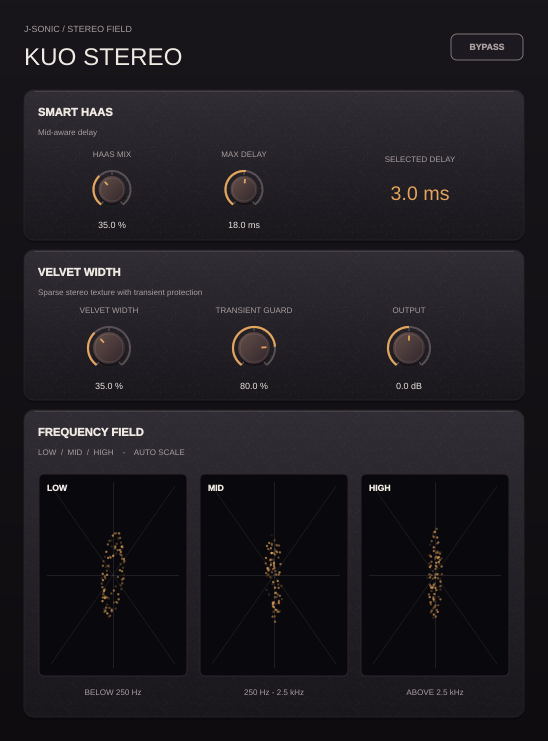
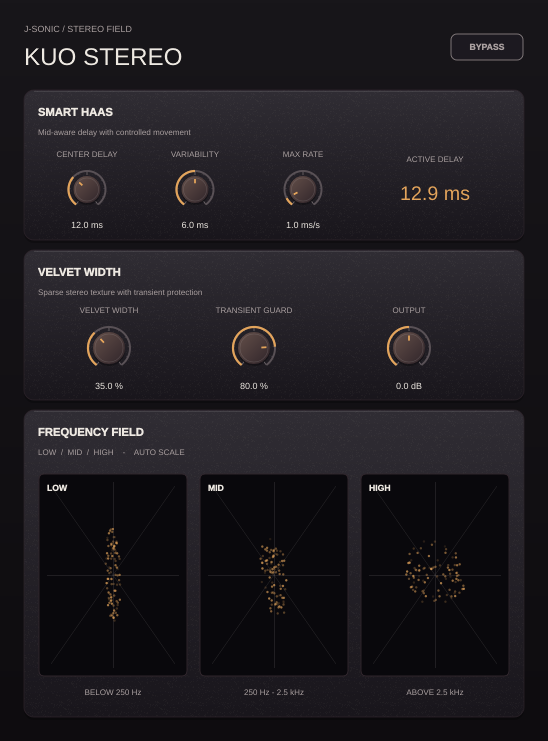
Control Kuo Haas delay around center with slew limit

diff --git a/projects/KuoStereo/Source/PluginProcessor.cpp b/projects/KuoStereo/Source/PluginProcessor.cpp
@@ -12,8 +12,9 @@ juce::AudioProcessorValueTreeState::ParameterLayout KuoStereoProcessor::layout()
             juce::NormalisableRange<float> { lo, hi, step }, initial,
             juce::AudioParameterFloatAttributes().withLabel (unit)));
     };
-    add ("haasMix", "Smart Haas", 0, 100, 0.1f, 35, "%");
-    add ("haasMax", "Haas maximum delay", 5, 30, 0.1f, 18, "ms");
+    add ("haasCenter", "Haas center delay", 3, 30, 0.1f, 12, "ms");
+    add ("haasRange", "Haas variability", 0, 12, 0.1f, 6, "ms");
+    add ("haasRate", "Haas maximum variation rate", 0.1f, 10, 0.1f, 1, "ms/s");
     add ("width", "Velvet width", 0, 100, 0.1f, 35, "%");
     add ("transientProtect", "Transient protection", 0, 100, 0.1f, 80, "%");
     add ("output", "Output", -12, 12, 0.1f, 0, "dB");
@@ -39,10 +40,12 @@ void KuoStereoProcessor::prepareToPlay (double rate, int)
     writePosition = sampleCount = analysisCounter = scopeCounter = transientHold = 0;
     lowState = upperState = {};
     fastEnvelope = slowEnvelope = 0;
-    haasBlend = widthBlend = 0;
+    widthBlend = 0;
     protectionGain = 1;
-    targetDelaySamples = smoothDelaySamples = 0.005f * sampleRate;
-    selectedDelayMs.store (5.0f, std::memory_order_relaxed);
+    const auto centerDelayMs = parameters.getRawParameterValue ("haasCenter")->load();
+    targetDelaySamples = smoothDelaySamples = centerDelayMs * 0.001f * sampleRate;
+    selectedDelayMs.store (centerDelayMs, std::memory_order_relaxed);
+    currentDelayMs.store (centerDelayMs, std::memory_order_relaxed);
     const auto coefficient = [this] (float hz)
     { return 1.0f - std::exp (-juce::MathConstants<float>::twoPi * hz / sampleRate); };
     lowCoefficient = coefficient (250.0f);
@@ -97,22 +100,43 @@ float KuoStereoProcessor::readAgoInterpolated (const std::vector<float>& history
          + readAgo (history, whole + 1) * fraction;
 }
 
-void KuoStereoProcessor::analyzeMidSpectrum (float maxDelayMs) noexcept
+void KuoStereoProcessor::analyzeMidSpectrum (float centerDelayMs, float variabilityMs) noexcept
 {
+    const auto lowDelayMs = std::max (3.0f, centerDelayMs - variabilityMs);
+    const auto highDelayMs = std::min (30.0f, centerDelayMs + variabilityMs);
     if (sampleCount < static_cast<int> (sampleRate * 0.03f) + fftSize)
+    {
+        targetDelaySamples = centerDelayMs * 0.001f * sampleRate;
+        selectedDelayMs.store (centerDelayMs, std::memory_order_relaxed);
         return;
+    }
+    if (highDelayMs - lowDelayMs < 0.0001f)
+    {
+        targetDelaySamples = lowDelayMs * 0.001f * sampleRate;
+        selectedDelayMs.store (lowDelayMs, std::memory_order_relaxed);
+        return;
+    }
     std::fill (spectrumInput.begin(), spectrumInput.end(), 0.0f);
     for (int i = 0; i < fftSize; ++i)
         spectrumInput[static_cast<size_t> (i)] = readAgo (midHistory, fftSize - 1 - i)
                                                  * window[static_cast<size_t> (i)];
     fft.performFrequencyOnlyForwardTransform (spectrumInput.data());
+    float referenceLevel = 0;
+    for (int bin = 2; bin < fftSize / 2; ++bin)
+        referenceLevel += spectrumInput[static_cast<size_t> (bin)] / fftSize;
+    if (referenceLevel < 0.001f)
+    {
+        targetDelaySamples = centerDelayMs * 0.001f * sampleRate;
+        selectedDelayMs.store (centerDelayMs, std::memory_order_relaxed);
+        return;
+    }
 
     float bestScore = std::numeric_limits<float>::max();
-    float bestDelayMs = 5.0f;
+    float bestDelayMs = centerDelayMs;
     for (int candidate = 0; candidate < candidates; ++candidate)
     {
-        const auto delayMs = 3.0f + (std::max (maxDelayMs, 3.0f) - 3.0f)
-                                      * static_cast<float> (candidate) / static_cast<float> (candidates - 1);
+        const auto delayMs = lowDelayMs + (highDelayMs - lowDelayMs)
+                                         * static_cast<float> (candidate) / static_cast<float> (candidates - 1);
         const auto delaySamples = juce::roundToInt (delayMs * 0.001f * sampleRate);
         std::fill (spectrumCandidate.begin(), spectrumCandidate.end(), 0.0f);
         for (int i = 0; i < fftSize; ++i)
@@ -189,8 +213,10 @@ void KuoStereoProcessor::processBlock (juce::AudioBuffer<float>& buffer, juce::M
 {
     juce::ScopedNoDenormals noDenormals;
     if (buffer.getNumChannels() < 2 || rightHistory.empty()) return;
-    const auto mixTarget = parameters.getRawParameterValue ("haasMix")->load() * 0.01f;
-    const auto maxDelay = parameters.getRawParameterValue ("haasMax")->load();
+    const auto centerDelay = parameters.getRawParameterValue ("haasCenter")->load();
+    const auto variability = parameters.getRawParameterValue ("haasRange")->load();
+    const auto maxRate = parameters.getRawParameterValue ("haasRate")->load();
+    const auto maxDelayStep = maxRate * 0.001f; // Samples per sample equals ms per second.
     const auto widthTarget = parameters.getRawParameterValue ("width")->load() * 0.01f;
     const auto protection = parameters.getRawParameterValue ("transientProtect")->load() * 0.01f;
     const auto gain = juce::Decibels::decibelsToGain (parameters.getRawParameterValue ("output")->load());
@@ -210,7 +236,7 @@ void KuoStereoProcessor::processBlock (juce::AudioBuffer<float>& buffer, juce::M
         if (++analysisCounter >= fftSize / 2)
         {
             analysisCounter = 0;
-            analyzeMidSpectrum (maxDelay);
+            analyzeMidSpectrum (centerDelay, variability);
         }
 
         fastEnvelope += fastCoefficient * (std::abs (mid) - fastEnvelope);
@@ -222,22 +248,22 @@ void KuoStereoProcessor::processBlock (juce::AudioBuffer<float>& buffer, juce::M
         const auto protectionTarget = transientHold > 0 ? 1.0f - protection : 1.0f;
         protectionGain += (protectionTarget - protectionGain)
             * (protectionTarget < protectionGain ? 0.1f : 0.001f);
-        smoothDelaySamples += (targetDelaySamples - smoothDelaySamples) * 0.0001f;
-        haasBlend += (mixTarget - haasBlend) * 0.001f;
+        smoothDelaySamples += std::clamp (targetDelaySamples - smoothDelaySamples,
+                                         -maxDelayStep, maxDelayStep);
         widthBlend += (widthTarget - widthBlend) * 0.001f;
         const auto delayedRight = readAgoInterpolated (rightHistory, smoothDelaySamples);
-        const auto haasRight = dryRight + haasBlend * (delayedRight - dryRight);
         float velvet = 0;
         for (int tap = 0; tap < velvetTaps; ++tap)
             velvet += tapWeights[static_cast<size_t> (tap)]
                     * readAgo (midHistory, tapOffsets[static_cast<size_t> (tap)]);
-        const auto widenedSide = 0.5f * (dryLeft - haasRight)
+        const auto widenedSide = 0.5f * (dryLeft - delayedRight)
                                + 0.5f * widthBlend * protectionGain * velvet;
-        const auto processedMid = 0.5f * (dryLeft + haasRight);
+        const auto processedMid = 0.5f * (dryLeft + delayedRight);
         left[i] = bypass ? dryLeft : (processedMid + widenedSide) * gain;
         right[i] = bypass ? dryRight : (processedMid - widenedSide) * gain;
         pushScope (left[i], right[i]);
     }
+    currentDelayMs.store (smoothDelaySamples * 1000.0f / sampleRate, std::memory_order_relaxed);
 }
 
 void KuoStereoProcessor::getStateInformation (juce::MemoryBlock& data)

diff --git a/projects/KuoStereo/Tests/ProcessorTests.cpp b/projects/KuoStereo/Tests/ProcessorTests.cpp
@@ -23,7 +23,8 @@ void set (KuoStereoProcessor& processor, const char* id, float value)
 float impulseSideEnergy (float guard)
 {
     KuoStereoProcessor processor;
-    set (processor, "haasMix", 0);
+    set (processor, "haasCenter", 30);
+    set (processor, "haasRange", 0);
     set (processor, "width", 100);
     set (processor, "transientProtect", guard);
     processor.prepareToPlay (48000, 256);
@@ -40,7 +41,7 @@ float impulseSideEnergy (float guard)
         for (int i = 0; i < 256; ++i)
         {
             const auto sample = block * 256 + i;
-            if (sample >= 4000 && sample < 5600)
+            if (sample >= 4192 && sample < 5400)
             {
                 const auto side = buffer.getSample (0, i) - buffer.getSample (1, i);
                 energy += side * side;
@@ -68,13 +69,16 @@ int main (int argc, char** argv)
         juce::ScopedJuceInitialiser_GUI gui;
         KuoStereoProcessor processor;
         check (processor.getName() == "Kuo Stereo", "plug-in identity is Kuo Stereo");
-        check (processor.getParameters().size() == 6, "all six host parameters are registered");
+        check (std::abs (processor.getCurrentDelayMs() - 12.0f) < 0.001f,
+               "active delay initially displays the default center before audio starts");
+        check (processor.getParameters().size() == 7, "all seven host parameters are registered");
         auto buses = processor.getBusesLayout();
         check (processor.isBusesLayoutSupported (buses), "stereo layout is supported");
         buses.outputBuses.set (0, juce::AudioChannelSet::mono());
         check (! processor.isBusesLayoutSupported (buses), "mismatched stereo layout is rejected");
-        set (processor, "haasMix", 62.5f);
-        set (processor, "haasMax", 24.0f);
+        set (processor, "haasCenter", 15.0f);
+        set (processor, "haasRange", 8.0f);
+        set (processor, "haasRate", 2.5f);
         set (processor, "width", 71.0f);
         set (processor, "transientProtect", 91.0f);
         juce::MemoryBlock state;
@@ -107,10 +111,13 @@ int main (int argc, char** argv)
         check (identical, "bypass preserves both input channels exactly");
 
         KuoStereoProcessor width;
-        set (width, "haasMix", 0);
         set (width, "width", 100);
         set (width, "transientProtect", 0);
         width.prepareToPlay (48000, 256);
+        KuoStereoProcessor noWidth;
+        set (noWidth, "width", 0);
+        noWidth.prepareToPlay (48000, 256);
+        juce::AudioBuffer<float> baseline (2, 256);
         float sideEnergy = 0;
         for (int block = 0; block < 180; ++block)
         {
@@ -121,11 +128,14 @@ int main (int argc, char** argv)
                 buffer.setSample (0, i, sample);
                 buffer.setSample (1, i, sample);
             }
+            baseline.makeCopyOf (buffer);
             width.processBlock (buffer, midi);
+            noWidth.processBlock (baseline, midi);
             if (block > 100)
                 for (int i = 0; i < 256; ++i)
                 {
-                    const auto side = buffer.getSample (0, i) - buffer.getSample (1, i);
+                    const auto side = (buffer.getSample (0, i) - buffer.getSample (1, i))
+                                    - (baseline.getSample (0, i) - baseline.getSample (1, i));
                     sideEnergy += side * side;
                 }
         }
@@ -136,8 +146,8 @@ int main (int argc, char** argv)
                "transient guard suppresses the widened impulse tail");
 
         KuoStereoProcessor haas;
-        set (haas, "haasMix", 100);
-        set (haas, "haasMax", 18);
+        set (haas, "haasCenter", 12);
+        set (haas, "haasRange", 6);
         set (haas, "width", 0);
         haas.prepareToPlay (48000, 256);
         unsigned int random = 0x51a7u;
@@ -161,10 +171,30 @@ int main (int argc, char** argv)
                     channelDifference += std::abs (left - right);
                 }
         }
-        check (haas.getSelectedDelayMs() >= 3.0f && haas.getSelectedDelayMs() <= 18.0f,
-               "mid-spectrum analyzer selects a delay within the requested Haas range");
+        check (haas.getSelectedDelayMs() >= 6.0f && haas.getSelectedDelayMs() <= 18.0f,
+               "mid-spectrum analyzer selects a delay within center plus or minus variability");
         check (finite && channelDifference > 1.0f, "adaptive Haas processing creates finite stereo separation");
         check (scopePeak (width, 1) > 0.01f, "mid-band goniometer receives processed stereo points");
+
+        KuoStereoProcessor limited;
+        set (limited, "haasCenter", 12);
+        set (limited, "haasRange", 0);
+        set (limited, "haasRate", 1);
+        limited.prepareToPlay (48000, 256);
+        set (limited, "haasCenter", 20);
+        buffer.clear();
+        for (int block = 0; block < 100; ++block)
+            limited.processBlock (buffer, midi);
+        const auto slowDelay = limited.getCurrentDelayMs();
+        check (std::abs (limited.getSelectedDelayMs() - 20.0f) < 0.01f,
+               "zero variability fixes the selected delay at the center");
+        check (slowDelay > 12.4f && slowDelay < 12.55f,
+               "one ms per second rate limit bounds the active delay movement");
+        set (limited, "haasRate", 10);
+        limited.processBlock (buffer, midi);
+        const auto fastStep = limited.getCurrentDelayMs() - slowDelay;
+        check (fastStep > 0.04f && fastStep < 0.06f,
+               "maximum rate control changes the delay slew limit");
 
         if (argc > 1 && juce::String (argv[1]) == "--editor")
         {
@@ -194,7 +224,7 @@ int main (int argc, char** argv)
             int knobs = 0;
             for (auto* child : editor->getChildren())
                 if (dynamic_cast<juce::Slider*> (child) != nullptr) ++knobs;
-            check (knobs == 5, "editor exposes both widening sections and output controls");
+            check (knobs == 6, "editor exposes delay movement and widening controls");
             const auto image = editor->createComponentSnapshot (editor->getLocalBounds());
             check (image.isValid(), "frequency-split goniometer editor renders");
             if (argc > 2)

diff --git a/projects/KuoStereo/Source/PluginEditor.cpp b/projects/KuoStereo/Source/PluginEditor.cpp
@@ -122,15 +122,17 @@ KuoStereoEditor::KuoStereoEditor (KuoStereoProcessor& p)
     setLookAndFeel (&look);
     addAndMakeVisible (bypass);
     bypassAttachment = std::make_unique<State::ButtonAttachment> (p.parameters, "bypass", bypass);
-    constexpr std::array<const char*, 5> ids { "haasMix", "haasMax", "width", "transientProtect", "output" };
-    constexpr std::array<const char*, 5> names { "HAAS MIX", "MAX DELAY", "VELVET WIDTH", "TRANSIENT GUARD", "OUTPUT" };
-    constexpr std::array<const char*, 5> units { " %", " ms", " %", " %", " dB" };
+    constexpr std::array<const char*, 6> ids {
+        "haasCenter", "haasRange", "haasRate", "width", "transientProtect", "output" };
+    constexpr std::array<const char*, 6> names {
+        "CENTER DELAY", "VARIABILITY", "MAX RATE", "VELVET WIDTH", "TRANSIENT GUARD", "OUTPUT" };
+    constexpr std::array<const char*, 6> units { " ms", " ms", " ms/s", " %", " %", " dB" };
     for (size_t i = 0; i < sliders.size(); ++i)
     {
         auto& slider = sliders[i];
         slider.setLookAndFeel (&look);
         slider.setSliderStyle (juce::Slider::RotaryHorizontalVerticalDrag);
-        slider.setTextBoxStyle (juce::Slider::TextBoxBelow, false, 124, 17);
+        slider.setTextBoxStyle (juce::Slider::TextBoxBelow, false, 104, 17);
         slider.setColour (juce::Slider::textBoxOutlineColourId, juce::Colours::transparentBlack);
         slider.setColour (juce::Slider::textBoxTextColourId, foreground);
         slider.setTextValueSuffix (units[i]);
@@ -151,9 +153,10 @@ KuoStereoEditor::KuoStereoEditor (KuoStereoProcessor& p)
 void KuoStereoEditor::resized()
 {
     bypass.setBounds (450, 33, 74, 28);
-    const std::array<juce::Rectangle<int>, 5> positions {
-        juce::Rectangle<int> (52, 163, 120, 70),
-        juce::Rectangle<int> (184, 163, 120, 70),
+    const std::array<juce::Rectangle<int>, 6> positions {
+        juce::Rectangle<int> (35, 163, 104, 70),
+        juce::Rectangle<int> (143, 163, 104, 70),
+        juce::Rectangle<int> (251, 163, 104, 70),
         juce::Rectangle<int> (44, 319, 130, 75),
         juce::Rectangle<int> (189, 319, 130, 75),
         juce::Rectangle<int> (344, 319, 130, 75)
@@ -186,17 +189,18 @@ void KuoStereoEditor::paint (juce::Graphics& g)
     g.drawText ("FREQUENCY FIELD", 38, 422, 250, 20, juce::Justification::centredLeft);
     g.setColour (secondary);
     g.setFont (juce::FontOptions (9.0f));
-    g.drawText ("Mid-aware delay", 38, 124, 250, 16, juce::Justification::centredLeft);
+    g.drawText ("Mid-aware delay with controlled movement", 38, 124, 350, 16,
+                juce::Justification::centredLeft);
     g.drawText ("Sparse stereo texture with transient protection", 38, 284, 390, 16,
                 juce::Justification::centredLeft);
     g.drawText ("LOW  /  MID  /  HIGH    -    AUTO SCALE", 38, 444, 390, 16,
                 juce::Justification::centredLeft);
     g.setColour (secondary);
     g.setFont (juce::FontOptions (9.0f));
-    g.drawText ("SELECTED DELAY", 345, 151, 150, 17, juce::Justification::centred);
+    g.drawText ("ACTIVE DELAY", 365, 151, 140, 17, juce::Justification::centred);
     g.setColour (amber);
     g.setFont (juce::FontOptions (22.0f));
-    g.drawText (juce::String (processor.getSelectedDelayMs(), 1) + " ms", 335, 176, 170, 34,
+    g.drawText (juce::String (processor.getCurrentDelayMs(), 1) + " ms", 365, 176, 140, 34,
                 juce::Justification::centred);
     paintScope (g, 0, { 39, 474, 148, 202 });
     paintScope (g, 1, { 200, 474, 148, 202 });

diff --git a/projects/KuoStereo/Source/PluginProcessor.h b/projects/KuoStereo/Source/PluginProcessor.h
@@ -32,6 +32,7 @@ public:
     static constexpr int scopePoints = 96;
     void readScope (int band, std::array<juce::Point<float>, scopePoints>&) const noexcept;
     float getSelectedDelayMs() const noexcept { return selectedDelayMs.load (std::memory_order_relaxed); }
+    float getCurrentDelayMs() const noexcept { return currentDelayMs.load (std::memory_order_relaxed); }
     juce::AudioProcessorValueTreeState parameters;
 
 private:
@@ -40,7 +41,7 @@ private:
     static juce::AudioProcessorValueTreeState::ParameterLayout layout();
     float readAgo (const std::vector<float>&, int samplesAgo) const noexcept;
     float readAgoInterpolated (const std::vector<float>&, float samplesAgo) const noexcept;
-    void analyzeMidSpectrum (float maxDelayMs) noexcept;
+    void analyzeMidSpectrum (float centerDelayMs, float variabilityMs) noexcept;
     void pushScope (float left, float right) noexcept;
 
     juce::dsp::FFT fft { fftOrder };
@@ -51,11 +52,12 @@ private:
     std::vector<float> leftHistory, rightHistory, midHistory;
     std::array<std::array<ScopePoint, scopePoints>, 3> scope {};
     std::atomic<int> scopeWrite { 0 };
-    std::atomic<float> selectedDelayMs { 0 };
+    std::atomic<float> selectedDelayMs { 12 };
+    std::atomic<float> currentDelayMs { 12 };
     std::array<float, 2> lowState {}, upperState {};
     int writePosition = 0, sampleCount = 0, analysisCounter = 0, scopeCounter = 0, transientHold = 0;
-    float sampleRate = 48000.0f, targetDelaySamples = 240.0f, smoothDelaySamples = 240.0f;
-    float haasBlend = 0, widthBlend = 0, protectionGain = 1, fastEnvelope = 0, slowEnvelope = 0;
+    float sampleRate = 48000.0f, targetDelaySamples = 576.0f, smoothDelaySamples = 576.0f;
+    float widthBlend = 0, protectionGain = 1, fastEnvelope = 0, slowEnvelope = 0;
     float lowCoefficient = 0, upperCoefficient = 0, fastCoefficient = 0, slowCoefficient = 0;
     JUCE_DECLARE_NON_COPYABLE_WITH_LEAK_DETECTOR (KuoStereoProcessor)
 };

diff --git a/projects/KuoStereo/Source/PluginEditor.h b/projects/KuoStereo/Source/PluginEditor.h
@@ -30,10 +30,10 @@ private:
     KuoStereoProcessor& processor;
     KuoLookAndFeel look;
     KuoBypassButton bypass;
-    std::array<juce::Slider, 5> sliders;
-    std::array<juce::Label, 5> labels;
+    std::array<juce::Slider, 6> sliders;
+    std::array<juce::Label, 6> labels;
     using State = juce::AudioProcessorValueTreeState;
-    std::array<std::unique_ptr<State::SliderAttachment>, 5> attachments;
+    std::array<std::unique_ptr<State::SliderAttachment>, 6> attachments;
     std::unique_ptr<State::ButtonAttachment> bypassAttachment;
     JUCE_DECLARE_NON_COPYABLE_WITH_LEAK_DETECTOR (KuoStereoEditor)
 };

diff --git a/projects/KuoStereo/README.md b/projects/KuoStereo/README.md
@@ -5,11 +5,13 @@ alongside YinYang Compressor and SHUN DE-ESS, with the same dark analog panel,
 rotary controls, and amber accents. The [editor preview](Previews/kuo-stereo.png)
 shows its three sections.
 
-- **Smart Haas** searches six delays between 3 ms and Max Delay. For each
-  candidate, it compares the short-time spectrum of the original mid channel
-  with the mid channel that would result from delaying the right channel.
-  The least different candidate becomes the target; the actual delay glides
-  toward it to avoid clicks. Haas Mix blends the delayed right channel.
+- **Smart Haas** searches six delays within Center Delay ± Variability,
+  clamped to 3–30 ms. For each candidate, it compares the short-time spectrum
+  of the original mid channel with the mid channel that would result from
+  delaying the right channel. The least different candidate becomes the target.
+  Max Rate limits movement toward that target, reducing pitch modulation and
+  chorus-like motion. A zero Variability setting fixes the delay at Center
+  Delay.
 - **Velvet Width** adds a sparse, balanced-polarity convolution of the dry mid
   channel to the side channel. Transient Guard detects mid-channel onsets,
   holds the protection through the convolution tail, and temporarily reduces
@@ -18,11 +20,11 @@ shows its three sections.
   output, split below 250 Hz, from 250 Hz to 2.5 kHz, and above 2.5 kHz.
   Each display scales its points automatically so quieter bands remain visible.
 
-The controls are Haas Mix, Max Delay, Velvet Width, Transient Guard, Output,
-and Bypass. All are host parameters and survive state recall. The plug-in
-accepts stereo input and output, offers VST3 and Standalone builds, and also
-builds as an Audio Unit on macOS. It reports no added host latency; the delay
-and velvet paths keep up to about 30 ms of internal history.
+The controls are Center Delay, Variability, Max Rate, Velvet Width, Transient
+Guard, Output, and Bypass. All are host parameters and survive state recall.
+The plug-in accepts stereo input and output, offers VST3 and Standalone builds,
+and also builds as an Audio Unit on macOS. It reports no added host latency;
+the delay and velvet paths keep up to about 30 ms of internal history.
 
 From the repository root, build and test with:
 
